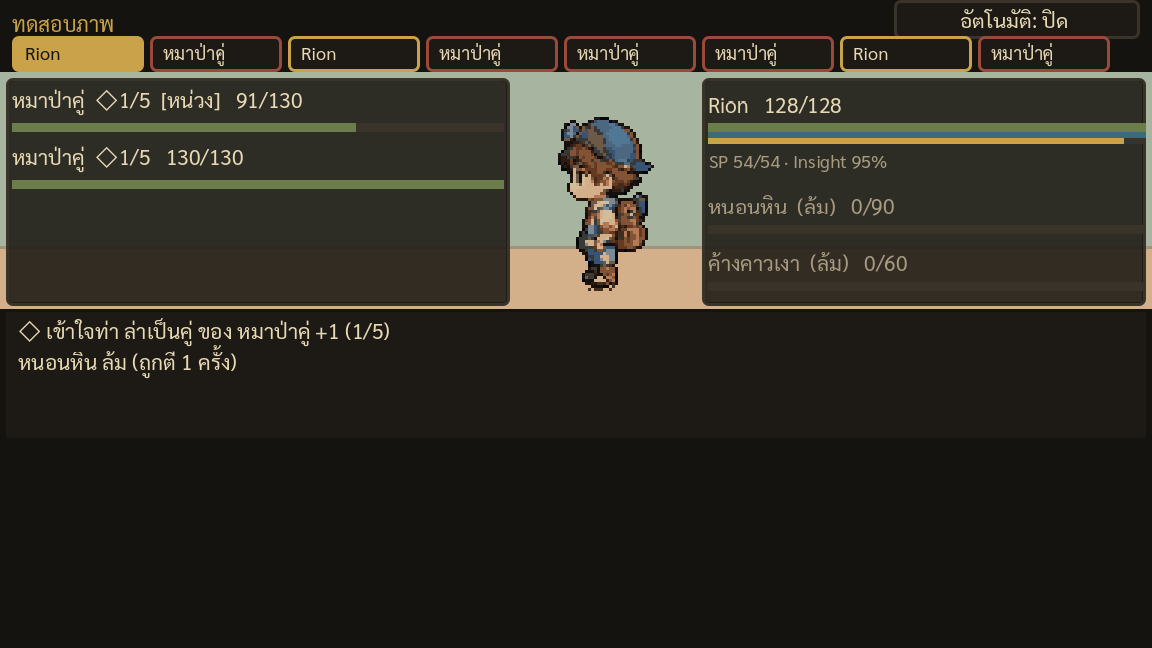
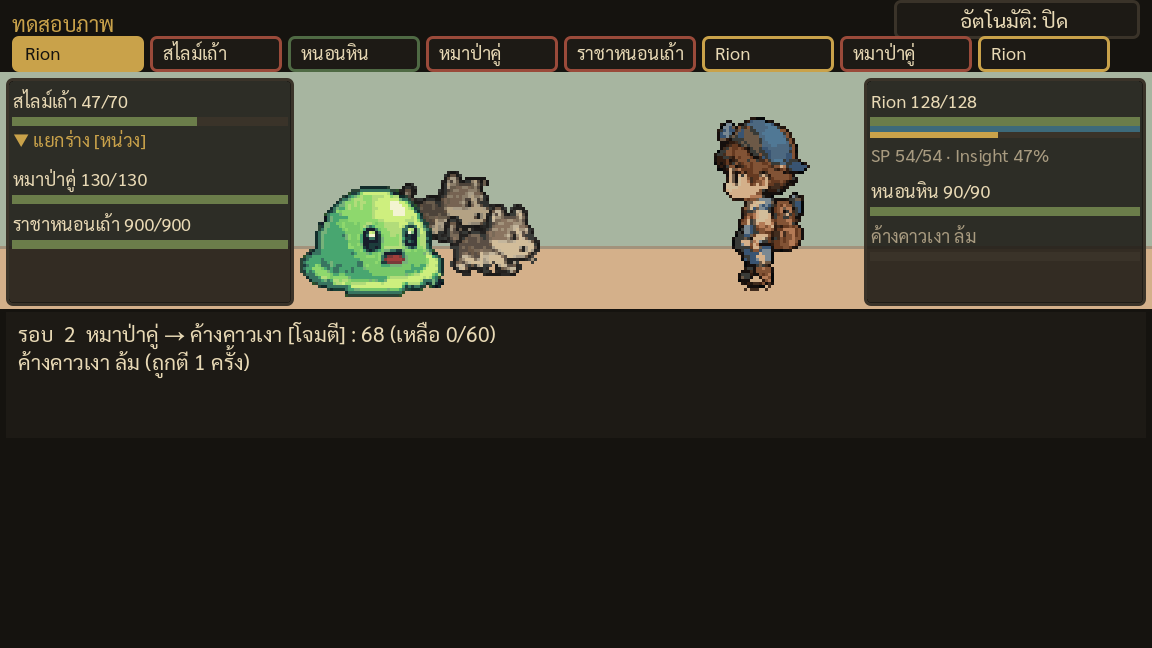
Draw monsters on the battle stage with narrower side panels
Layout A as chosen: the name panels shrink to the screen edges and foes
with art stand in the middle of the stage, alternating front and back
rows and fading when down. Panel rows are now name and HP plus a small
notes line, and the panels clip, because three foes with notes spilled
into the log.

Claude-Session: https://claude.ai/code/session_01GQscemcyhAULQ41Vq3Zx3F

Changed region(s): [[0.0, 0.0309, 0.5625, 0.5864], [0.5, 0.0309, 1.0, 0.4938], [0.125, 0.0617, 0.2188, 0.0926]]

diff --git a/reborner/tools/web/reborner.html b/reborner/tools/web/reborner.html
@@ -160,7 +160,7 @@ html, body { height: 100%; background-color: #0e0d0b; }
 </script>
 		<script src="index.js"></script>
 		<script>
-const GODOT_CONFIG = {"args":[],"canvasResizePolicy":2,"emscriptenPoolSize":8,"ensureCrossOriginIsolationHeaders":true,"executable":"index","experimentalVK":false,"fileSizes":{"index.pck":334840,"index.wasm":39513091},"focusCanvas":true,"gdextensionLibs":[],"godotPoolSize":4};
+const GODOT_CONFIG = {"args":[],"canvasResizePolicy":2,"emscriptenPoolSize":8,"ensureCrossOriginIsolationHeaders":true,"executable":"index","experimentalVK":false,"fileSizes":{"index.pck":337016,"index.wasm":39513091},"focusCanvas":true,"gdextensionLibs":[],"godotPoolSize":4};
 const GODOT_THREADS_ENABLED = false;
 const engine = new Engine(GODOT_CONFIG);
 

diff --git a/reborner/CLAUDE.md b/reborner/CLAUDE.md
@@ -97,7 +97,9 @@ Sim ปิดตัวเองเมื่อรัน headless · บรรท
   M15 = หมาคู่หูในชีตลงสีเทาน้ำตาล 2 ตัว ตัวหลังหูพับ · ทุกตัวมี `_idle1` · ไฟล์ `assets/sprites/monsters_ll/` · สีนอก master (ขัด bible ได้ตามที่สั่ง)
   **kwan อนุมัติ 3 ต.ค.: M01 สีเขียวตามต้นแบบ · M15 ผ่าน** (ชื่อ "สไลม์เถ้า" ยังเป็นชื่อเดิมตาม MASTER แม้ตัวเป็นสีเขียว)
   บนแมพแล้ว (`WorldEnemy.load_sprite` · รูปมอนตัวแรกของกลุ่ม · idle 2 เฟรม): วงเงาใต้เท้า = สีความอันตรายเดิม · ลูกศรขาว = ทิศที่หัน (ลอบตี) · หันซ้าย = พลิกรูป
-  ตัวที่ยังไม่มีรูป = กล่องสีเดิม · ภาพ `previews/map_monsters.png` · จอสู้ยังไม่วาดมอน (รอเลือกผัง `previews/battle_layout_options.png`)
+  ตัวที่ยังไม่มีรูป = กล่องสีเดิม · ภาพ `previews/map_monsters.png`
+  **จอสู้ผังแบบ A (kwan เลือก 3 ต.ค.)**: แผงศัตรู x2-98 · แผงปาร์ตี้ x288-382 · ศัตรูที่มีรูปยืนกลางเวที x100-214 (สลับแถวหน้า/หลัง · idle 2 เฟรม · ล้ม = จาง) · Rion x222
+  แถวในแผง: บรรทัดแรก ชื่อ+HP (ล้ม = คำว่า "ล้ม") ตัว 6pt · บรรทัดสอง ▼ท่าที่เปิด/◇/สถานะ · แผงตัดส่วนล้น (เทสต์แล้วศัตรู 3 ตัวพอดี) · ภาพ `previews/battle_stage.png`
   ชีต `previews/monsters_ll_samples.png` · **ยังไม่ต่อเข้าเกม รอ kwan อนุมัติด้วยตา** · B1 ในเกม 80px แต่สเปก L 96px
 
 - ✅ 3 ต.ค. 2026: **จอสู้มีเวทีสว่าง** (ตัดสินแล้ว แทนการแก้สีมอน): ฟ้า A7B5A0 + พื้นทราย D4B08A + เส้นขอบฟ้า A2927B ช่วง y 24-102 · กล่องรายชื่อรองแผงเข้มโปร่ง 88% · ภาพ `previews/battle_stage.png`
